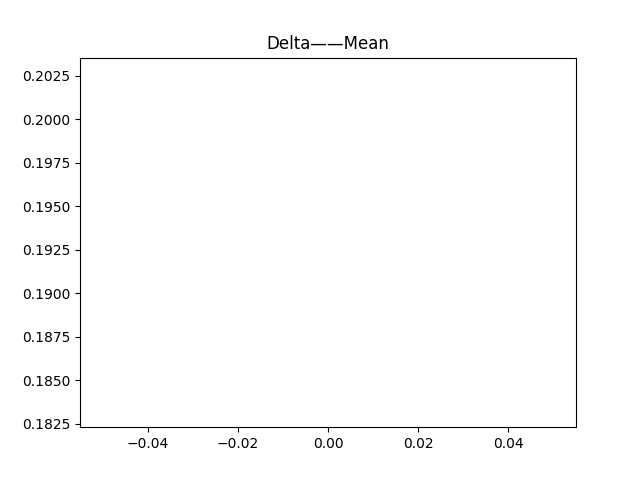
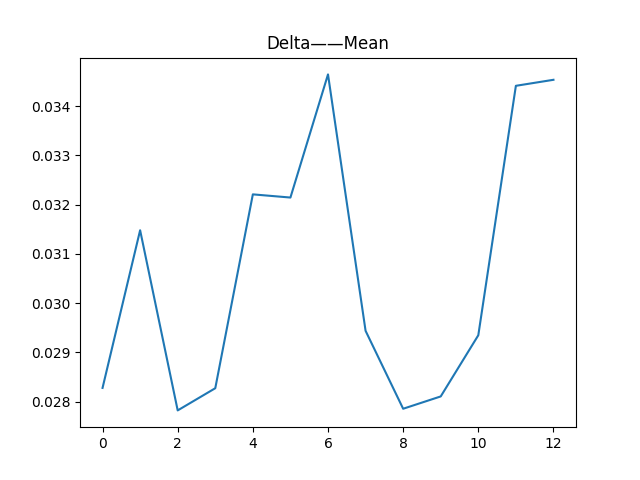
'new_adapt'

diff --git a/main.py b/main.py
@@ -52,15 +52,15 @@ def matrix_single():
 
 
 def adaptive_cs():
-    # ratios = [delta_ratio1, delta_ratio2, delta_ratio3, delta_ratio4, delta_ratio5]
-    # seqs2csv(ratios, delta_ratio_csv)
-    # csv = pd.read_csv(delta_ratio_csv)
-    # plot_delta_trend(csv, delta_ratio_img)
+    ratios = [delta_ratio7, delta_ratio8, delta_ratio9]
+    seqs2csv(ratios, delta_ratio_csv)
+    csv = pd.read_csv(delta_ratio_csv)
+    plot_delta_trend(csv, delta_ratio_img)
 
-    js_dists = [js_dis1, js_dis2, js_dis3, js_dis4, js_dis5]
-    seqs2csv(js_dists, js_dis_csv)
-    csv = pd.read_csv(js_dis_csv)
-    plot_vector_trend(csv, js_dis_img)
+    # js_dists = [js_dis1, js_dis2, js_dis3, js_dis4, js_dis5]
+    # seqs2csv(js_dists, js_dis_csv)
+    # csv = pd.read_csv(js_dis_csv)
+    # plot_vector_trend(csv, js_dis_img)
 
 
 def tmp():
@@ -72,5 +72,4 @@ if __name__ == '__main__':
     # matrix_dist_csvs()
     # selection()
     # matrix_single()
-    # adaptive_cs()
-    a = np.float(1)
+    adaptive_cs()

diff --git a/Paths.py b/Paths.py
@@ -48,6 +48,16 @@ delta_ratio2 = "res/average_delta_ratio_174854---11.17.seq"
 delta_ratio3 = "res/average_delta_ratio_181639---11.17.seq"
 delta_ratio4 = "res/average_delta_ratio_184451---11.17.seq"
 delta_ratio5 = "res/average_delta_ratio_191121---11.17.seq"
+delta_ratio6 = "res/average_delta_ratio_200424---11.30.seq"
+
+delta_ratio7 = "res/average_delta_ratio_000925---12.01.seq"
+delta_ratio8 = "res/average_delta_ratio_010615---12.01.seq"
+delta_ratio9 = "res/average_delta_ratio_234037---11.30.seq"
+
+if1 = "res/avg_matrix_184208---12.01.seq"
+if2 = "res/avg_matrix_190847---12.01.seq"
+delta_sp_ratio1 = "res/delta_ratio_184208---12.01.seq"
+delta_sp_ratio2 = "res/delta_ratio_190847---12.01.seq"
 
 # Out -
 js_dis_csv = "res/csv/js_dis.csv"
@@ -55,3 +65,4 @@ delta_ratio_csv = "res/csv/delta_ratio.csv"
 
 js_dis_img = "output/js_dis.png"
 delta_ratio_img = "output/delta_ratio.png"
+delta_img = "output/delta_sp_ratio.png"

diff --git a/utils/switcher.py b/utils/switcher.py
@@ -79,5 +79,11 @@ def switch_n_avg(data: pd.DataFrame):
         column_data = data[col].apply(lambda x: func(x))
         data[col] = column_data
 
-    data[Mean] = data.mean(axis=1)
+    data[Mean] = data.drop('Unnamed: 0', axis=1).mean(axis=1)
     return data
+
+
+def tsne_2dims(data: np.ndarray) -> np.ndarray:
+    tsne = TSNE(n_components=2)
+    transformed_data = tsne.fit_transform(data)
+    return transformed_data
